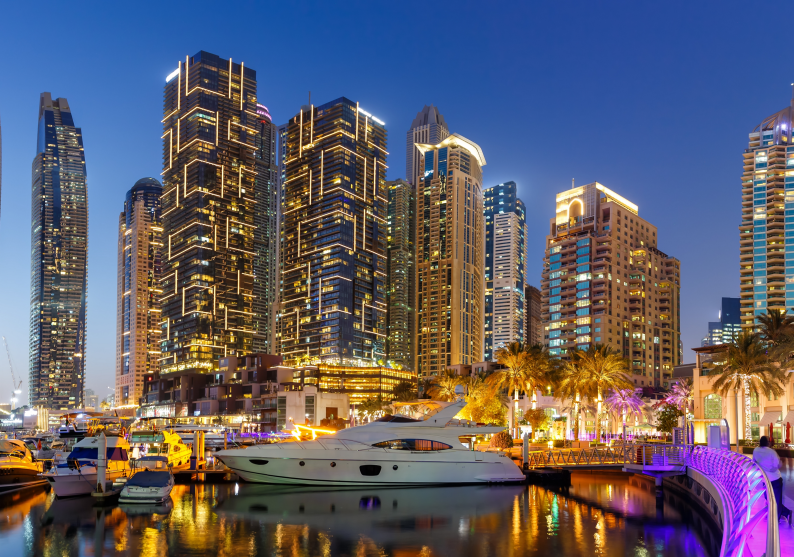
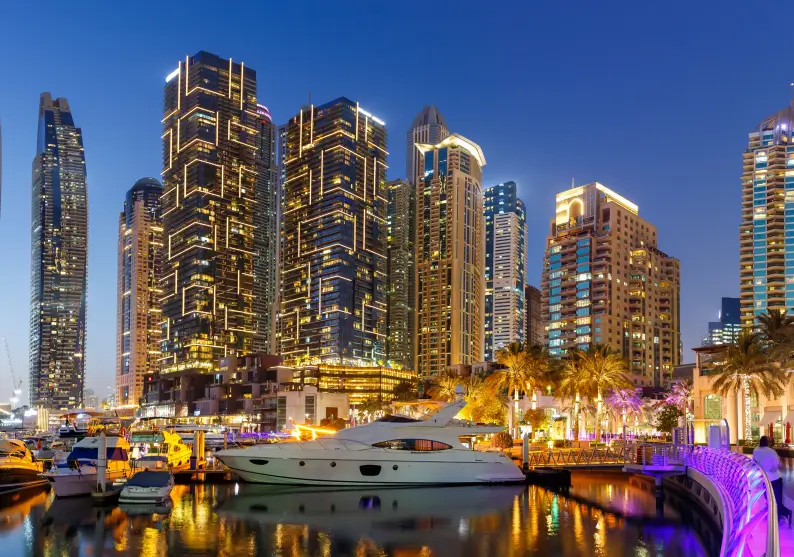
images updated

diff --git a/app/(frontend)/components/DubaiGuide/DubaiGuidePage.tsx b/app/(frontend)/components/DubaiGuide/DubaiGuidePage.tsx
@@ -33,7 +33,7 @@ function DubaiGuidePage() {
           }}
         >
           <SwiperSlide className="clmSliderItem">
-            <img src="/images/banner/dubai-guide-banner-2.png" className="multiItem" alt="banner"/>
+            <img src="/images/banner/dubai-guide-banner.webp" className="multiItem" alt="banner"/>
             <div className="carouselcontent">
               <h3>DUBAI REAL ESTATE GUIDE1</h3>
               <button className="mrAuto downloadBtn"  data-bs-toggle="modal"
@@ -41,7 +41,7 @@ function DubaiGuidePage() {
             </div>
           </SwiperSlide>
           <SwiperSlide className="clmSliderItem">
-            <img src="/images/banner/banner-3.png" className="multiItem" alt="banner"/>
+            <img src="/images/banner/banner-3.webp" className="multiItem" alt="banner"/>
             <div className="carouselcontent">
               <h3>DUBAI REAL ESTATE GUIDE2</h3>
               <button className="mrAuto downloadBtn"  data-bs-toggle="modal"
@@ -49,7 +49,7 @@ function DubaiGuidePage() {
             </div>
           </SwiperSlide>
           <SwiperSlide className="clmSliderItem">
-            <img src="/images/banner/banner-4.png" className="multiItem" alt="banner"/>
+            <img src="/images/banner/banner-4.webp" className="multiItem" alt="banner"/>
             <div className="carouselcontent">
               <h3>DUBAI REAL ESTATE GUIDE3</h3>
               <button className=" mrAuto downloadBtn"  data-bs-toggle="modal"
@@ -57,7 +57,7 @@ function DubaiGuidePage() {
             </div>
           </SwiperSlide>
           <SwiperSlide className="clmSliderItem">
-            <img src="/images/banner/banner-3.png" className="multiItem" alt="banner"/>
+            <img src="/images/banner/banner-3.webp" className="multiItem" alt="banner"/>
             <div className="carouselcontent">
               <h3>DUBAI REAL ESTATE GUIDE4</h3>
               <button className=" mrAuto downloadBtn "  data-bs-toggle="modal"
@@ -65,7 +65,7 @@ function DubaiGuidePage() {
             </div>
           </SwiperSlide>
           <SwiperSlide className="clmSliderItem">
-            <img src="/images/banner/banner-4.png" className="multiItem" alt="banner"/>
+            <img src="/images/banner/banner-4.webp" className="multiItem" alt="banner"/>
             <div className="carouselcontent">
               <h3>DUBAI REAL ESTATE GUIDE5</h3>
               <button className=" mrAuto downloadBtn "  data-bs-toggle="modal"

diff --git a/app/(frontend)/components/Sell/SellPage.tsx b/app/(frontend)/components/Sell/SellPage.tsx
@@ -41,7 +41,7 @@ const contactSideText =" An esteemed award-winning real estate brokerage based i
   return (
     <>
       <header className="sellWithRange">
-        <img src="/images/banner/banner-4.png" className="headerImgVideo" alt="sell your property"/>
+        <img src="/images/banner/banner-4.webp" className="headerImgVideo" alt="sell your property"/>
         <div className="headConentBox">
           <h2 className="headTitle mb-3">SELL WITH RANGE</h2>
           <p className="pText">
@@ -137,7 +137,7 @@ const contactSideText =" An esteemed award-winning real estate brokerage based i
         <div className="container">
           <div className="rowSec">
             <div className="colmBox">
-              <img src="/images/banner/banner-5.png" className="colmBoxImg" alt="sell your properties"/>
+              <img src="/images/banner/banner-5.webp" className="colmBoxImg" alt="sell your properties"/>
               <div className="colmBoxContent">
                 <h2>
                   GUIDE TO SELL <br />

diff --git a/app/(frontend)/components/models/SaleOfferModal.tsx b/app/(frontend)/components/models/SaleOfferModal.tsx
@@ -105,7 +105,7 @@ const SaleOfferModal = (prop) => {
                   <div className="p-3">
                     <div className="agent-img mt-2">
                       <img
-                        src="/images/videocall.jpeg"
+                        src="/images/videocall.webp"
                         alt="Range Property"
                         className="agent-img"
                       />

diff --git a/app/(frontend)/components/models/DownloadFileModel.tsx b/app/(frontend)/components/models/DownloadFileModel.tsx
@@ -83,7 +83,7 @@ function DownloadFileModel(props) {
                   <div className="p-3">
                     <div className="agent-img mt-2">
                       <img
-                        src="/images/videocall.jpeg"
+                        src="/images/videocall.webp"
                         alt="Range Property"
                         className="agent-img"
                       />

diff --git a/app/(frontend)/components/models/DownloadPPTModal.tsx b/app/(frontend)/components/models/DownloadPPTModal.tsx
@@ -108,7 +108,7 @@ const DownloadPPTModal = () => {
                   <div className="p-3">
                     <div className="agent-img mt-2">
                       <img
-                        src="/images/videocall.jpeg"
+                        src="/images/videocall.webp"
                         alt="Range Property"
                         className="agent-img"
                       />

diff --git a/app/(frontend)/components/models/contactModel.tsx b/app/(frontend)/components/models/contactModel.tsx
@@ -78,7 +78,7 @@ function ContactModel(props) {
                   <div className="p-3">
                     <div className="agent-img mt-2">
                       <img
-                        src="/images/videocall.jpeg"
+                        src="/images/videocall.webp"
                         alt="Range Property"
                         className="agent-img"
                       />

diff --git a/app/(frontend)/components/models/careerModel.tsx b/app/(frontend)/components/models/careerModel.tsx
@@ -95,7 +95,7 @@ function CareerModel(props) {
                   <div className="p-3">
                     <div className="agent-img mt-2">
                       <img
-                        src="/images/videocall.jpeg"
+                        src="/images/videocall.webp"
                         alt="Range Property"
                         className="agent-img"
                       />

diff --git a/app/(frontend)/components/models/calenderModel.tsx b/app/(frontend)/components/models/calenderModel.tsx
@@ -107,7 +107,7 @@ function CalenderModel() {
                   <div className="p-3">
                     <div className="agent-img mt-2">
                       <img
-                        src="/images/videocall.jpeg"
+                        src="/images/videocall.webp"
                         alt="Range Property"
                         className="agent-img"
                       />

diff --git a/app/(frontend)/components/models/simpleModal.tsx b/app/(frontend)/components/models/simpleModal.tsx
@@ -80,7 +80,7 @@ function SimpleModal() {
                   <div className="p-3">
                     <div className="agent-img mt-2">
                       <img
-                        src="/images/videocall.jpeg"
+                        src="/images/videocall.webp"
                         alt="Range Property"
                         className="agent-img"
                       />

diff --git a/app/(frontend)/components/CareerListPage/SingleCareerPage.tsx b/app/(frontend)/components/CareerListPage/SingleCareerPage.tsx
@@ -19,7 +19,7 @@ function SingleCareerPage({ params }) {
     <>
                <header className="header careerHeader">
         <img
-          src="/images/banner/banner-3.png"
+          src="/images/banner/banner-3.webp"
           className="headerImgVideo"
           alt="career"
         />

diff --git a/app/(frontend)/components/CareerListPage/CareerList.tsx b/app/(frontend)/components/CareerListPage/CareerList.tsx
@@ -38,7 +38,7 @@ function CareerListPage() {
     <>
       <header className="header careerHeader">
         <img
-          src="/images/banner/banner-3.png"
+          src="/images/banner/banner-3.webp"
           className="headerImgVideo"
           alt="career"
         />
